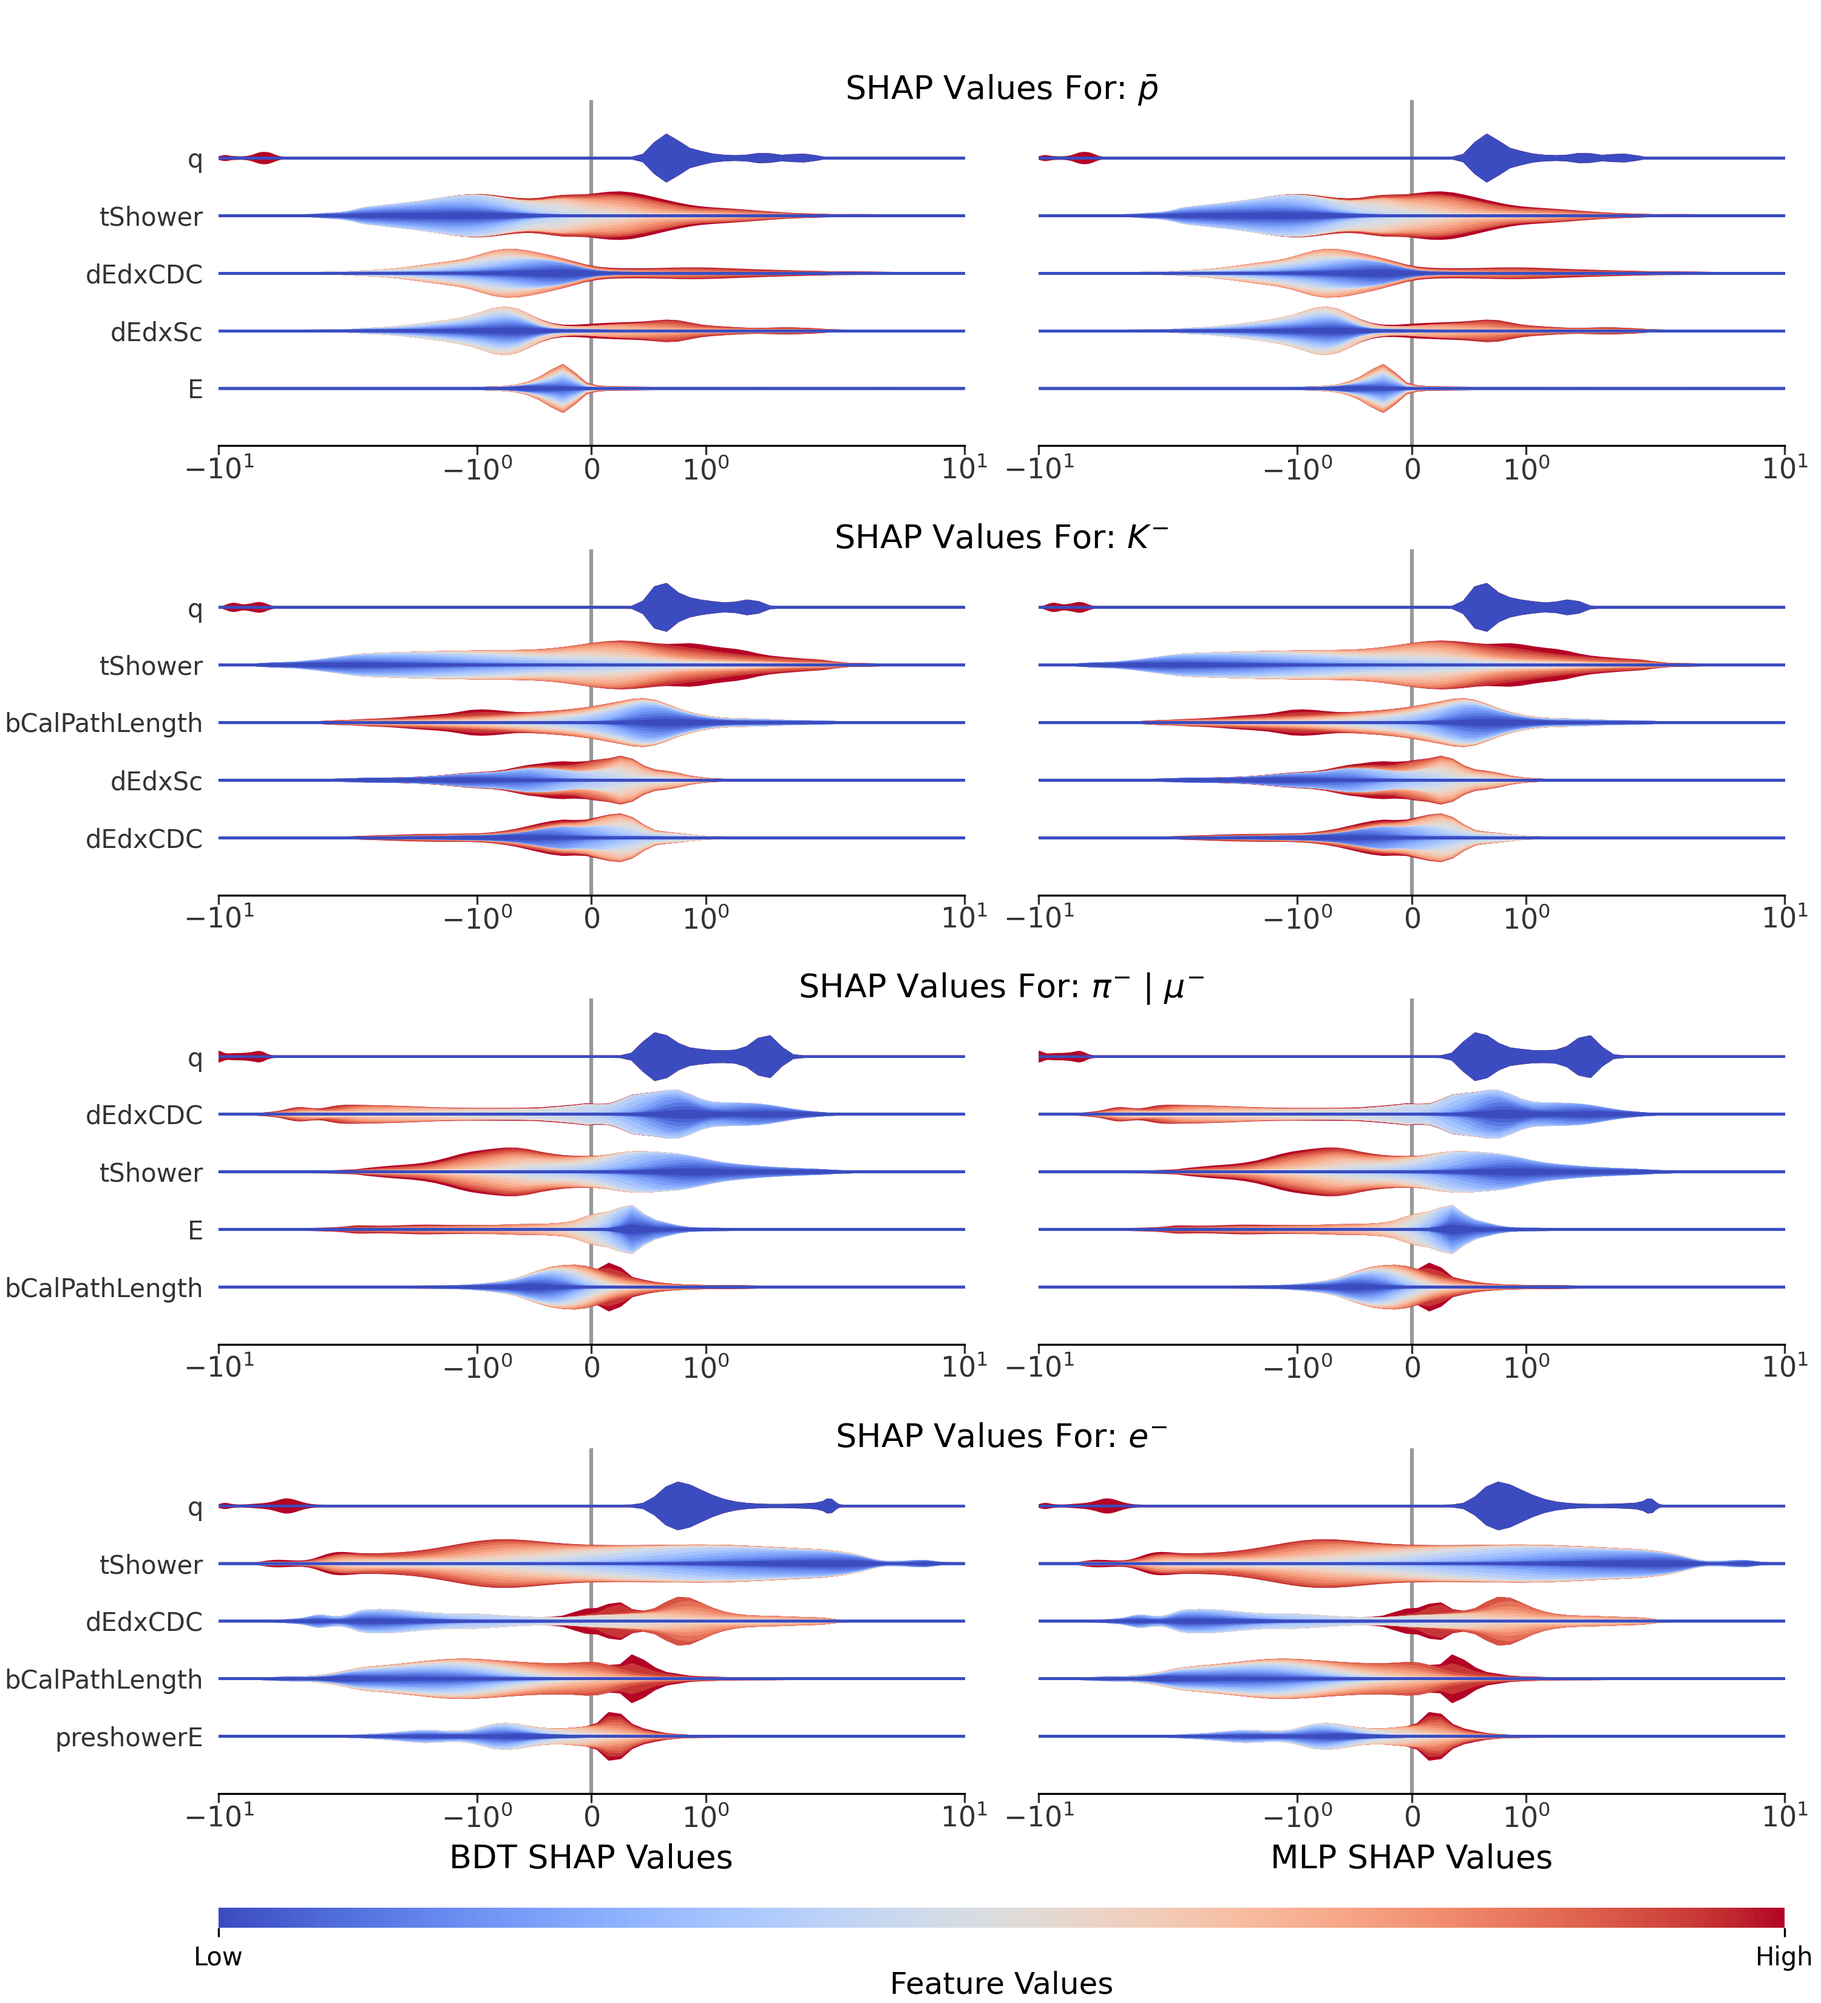
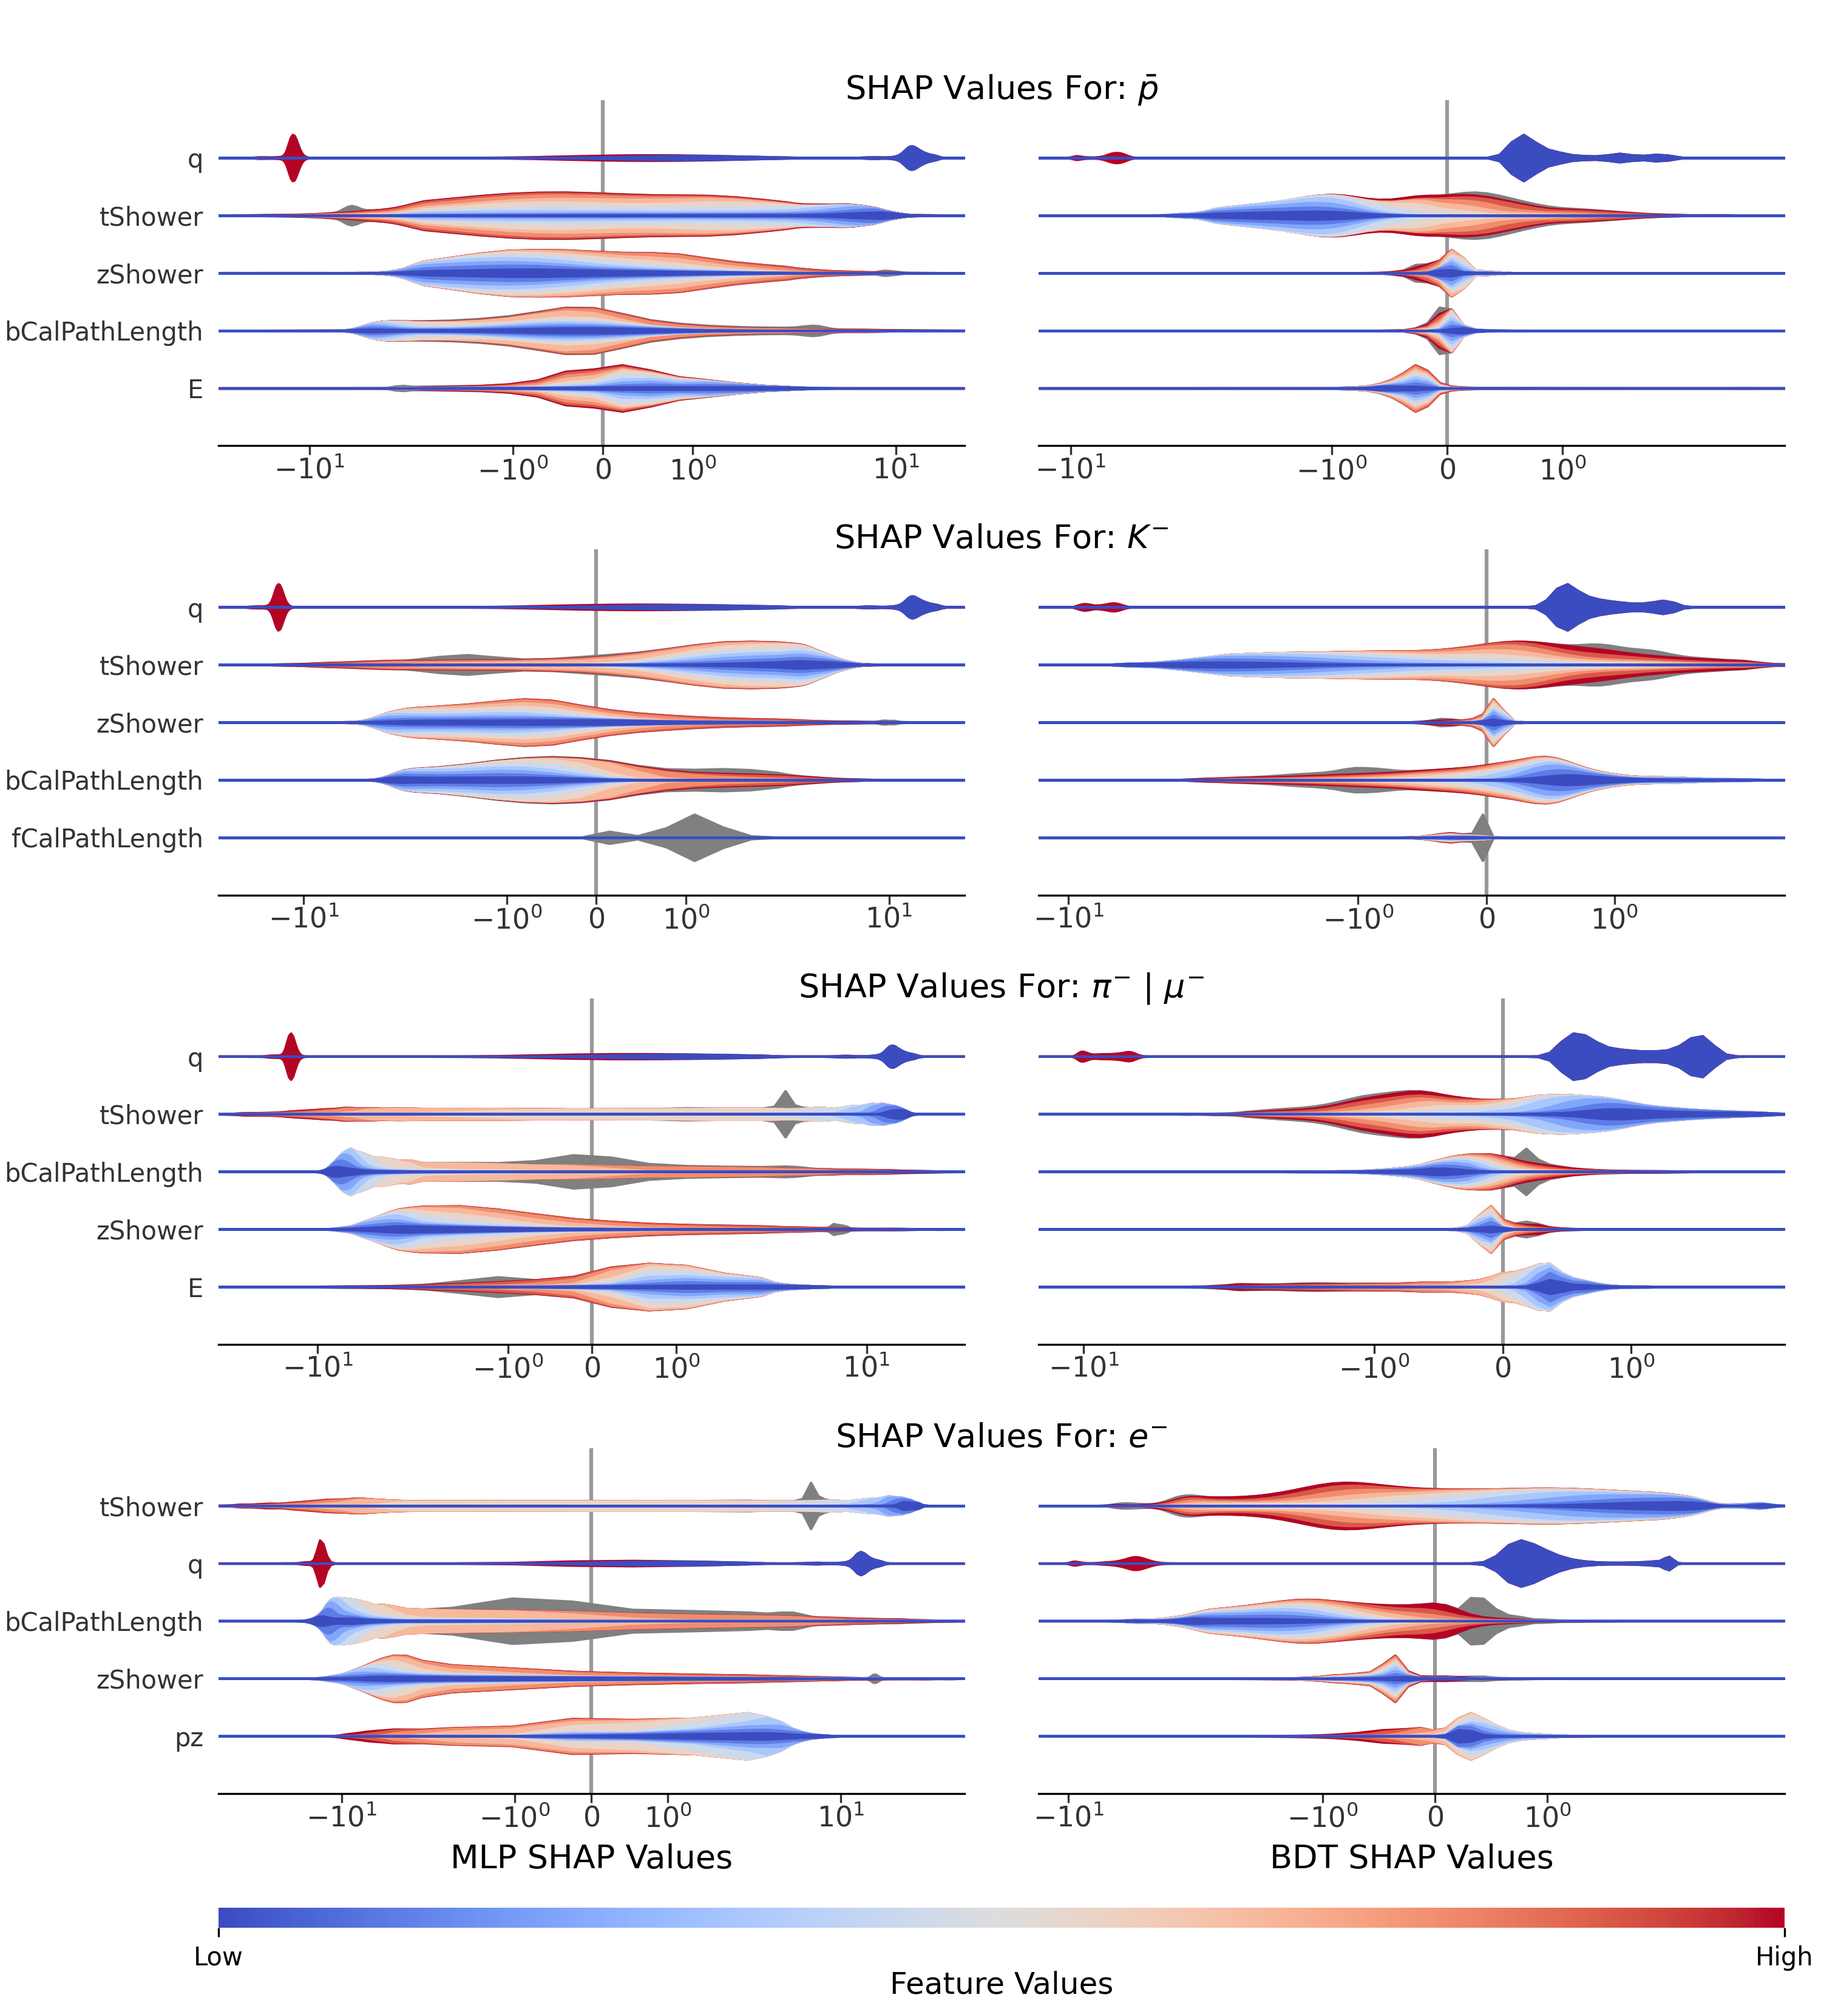
Moved nan layer to outermost layer

diff --git a/bdt_pid/misc.py b/bdt_pid/misc.py
@@ -92,14 +92,8 @@ def violin(shap_values, ax, features=None,max_display=5,color="coolwarm",layered
         # --- KDE Calculation ---
         all_ys = []
         colors = []
-        
-        # 2. Handle NaN data first (will be the first layer, colored gray)
-        if len(nan_shaps) > 1:
-            nan_kde = gaussian_kde(nan_shaps + np.random.normal(loc=0, scale=0.001, size=nan_shaps.shape[0]))(x_points)
-            nan_kde *= len(nan_shaps) # Scale by number of points
-            mcolors.to_rgba('gray') # Assign gray color for NaNs
             
-        # 3. Handle non-NaN data (colored layers)
+        # 2. Handle non-NaN data (colored layers)
         if len(shap_values_non_nan) > 1:
             # Decide binning strategy for non-NaN data
             unique, counts = np.unique(feature_non_nan, return_counts=True)
@@ -130,6 +124,12 @@ def violin(shap_values, ax, features=None,max_display=5,color="coolwarm",layered
                 all_ys.append(kde)
                 colors.append(cmap(i / (nbins - 1) if nbins > 1 else 0.5))
 
+        # 3. Handle NaN data  (will be the last layer, colored gray)
+        if len(nan_shaps) > 1:
+            nan_kde = gaussian_kde(nan_shaps + np.random.normal(loc=0, scale=0.001, size=nan_shaps.shape[0]))(x_points)
+            nan_kde *= len(nan_shaps) # Scale by number of points
+            all_ys.append(nan_kde)
+            colors.append(mcolors.to_rgba('gray')) # Assign gray color for NaNs
         # 4. PLOTTING
         if not all_ys: # If no data to plot for this feature, skip
             continue
@@ -171,7 +171,6 @@ def SHAP_plots(mlp_shap_vals, mlp_data, bdt_shap_vals, bdt_data, charge):
         bdt_indices = [0,1,2,3]
         mlp_indices = [0,2,6,5]
         classes = [r'$p$',r'$K^{+}$',r'$\pi^{+}$ | $\mu^{+}$', r'$e^{+}$']
-        index_offset=0
     elif charge=="neg":
         nClasses = 4
         bdt_indices = [4,5,6,7]
@@ -215,7 +214,7 @@ def SHAP_plots(mlp_shap_vals, mlp_data, bdt_shap_vals, bdt_data, charge):
     rel_pos_y = (aboveBox.y0 - belowBox.y1)/2 *1/5
     for j in range(nClasses-1,-1,-1):
         leftBox = axes[j][0].get_position()
-        fig.text(leftBox.x1+rel_pos_x, leftBox.y1+rel_pos_y, "SHAP Values For: " + classes[index_offset+j], ha='center', va='center', fontsize=13)
+        fig.text(leftBox.x1+rel_pos_x, leftBox.y1+rel_pos_y, "SHAP Values For: " + classes[j], ha='center', va='center', fontsize=13)
     fig.savefig("/home/rdube/PID_paper/pid_mlp/bdt_plots/" + charge + "_SHAP.png",dpi=300)
 
 
